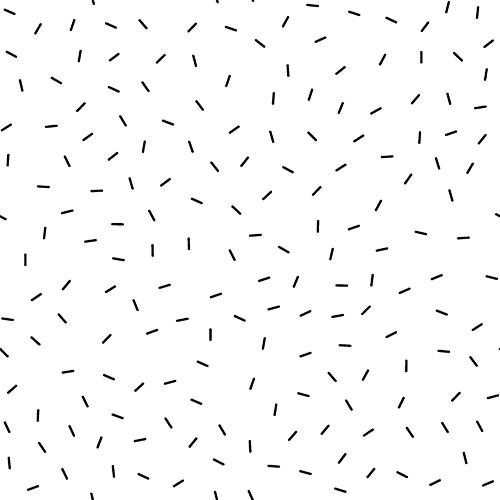
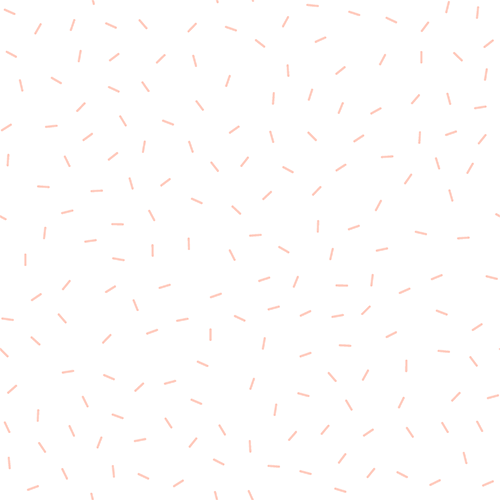
fondo

diff --git a/public/css/styles.css b/public/css/styles.css
@@ -56,8 +56,8 @@ body {
   line-height: 27px;
   font-weight: 400;
   background-color: rgb(240, 207, 181);
-  /* background-image: url('../images/background.png');
-  background-repeat: repeat; */
+  background-image: url('../images/background.png');
+  background-repeat: repeat;
 }
 header {
   width: 100%;
@@ -117,6 +117,7 @@ h4 {
   padding-top: 20px;
 }
 .menu-items a {
+  font-family: 'Playfair Display', serif;
   color: black;
   font-weight: 500;
   font-size: 1.5em;

diff --git a/resources/views/layouts/layout.blade.php b/resources/views/layouts/layout.blade.php
@@ -16,6 +16,7 @@
   <link href="{{ asset('css/styles.css') }}" rel="stylesheet">
   <link rel="stylesheet" href="https://use.fontawesome.com/releases/v5.0.13/css/all.css" integrity="sha384-DNOHZ68U8hZfKXOrtjWvjxusGo9WQnrNx2sqG0tfsghAvtVlRW3tvkXWZh58N9jp" crossorigin="anonymous">
   <link href="https://fonts.googleapis.com/css?family=Roboto:400,500,700" rel="stylesheet">
+  <<link href="https://fonts.googleapis.com/css2?family=Playfair+Display:wght@700&display=swap" rel="stylesheet">
 
   <!-- Scripts -->
   <script src="{{ asset('js/float-panel.js') }}"></script>
